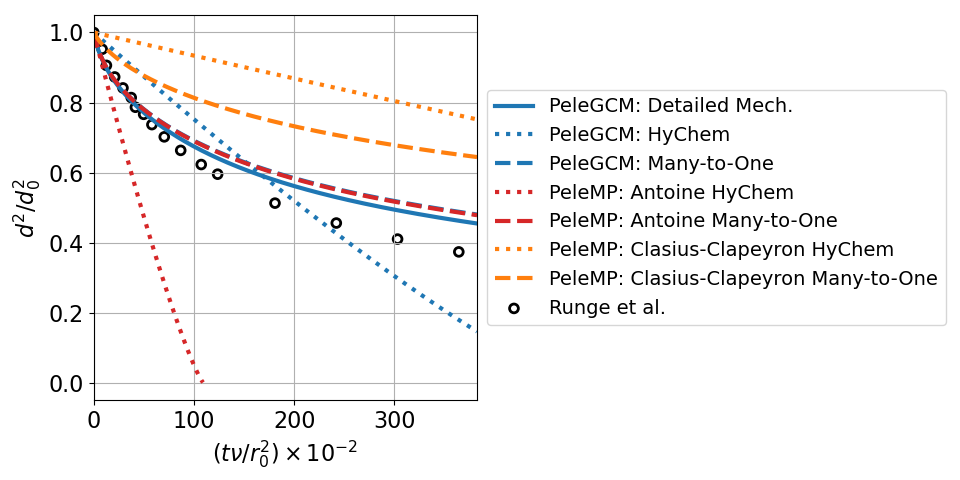
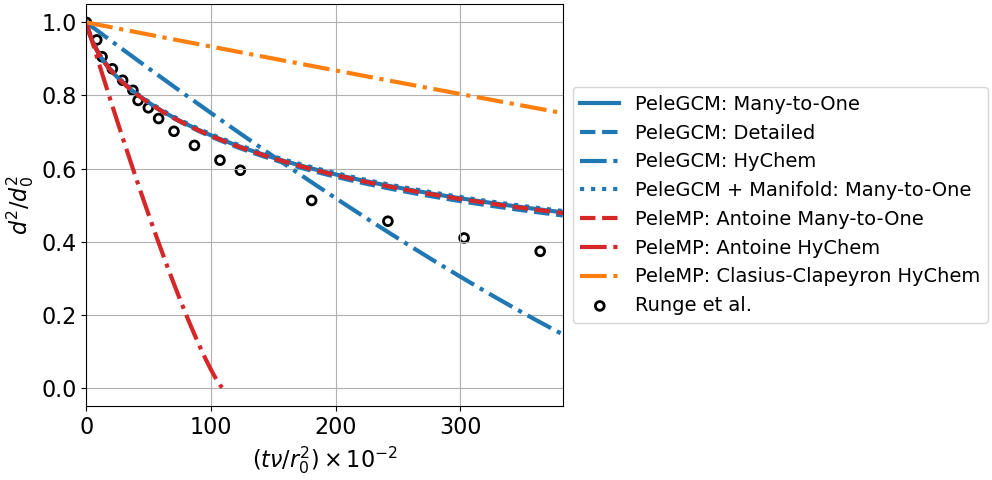
Minor docs update

diff --git a/Docs/sphinx/Spray.rst b/Docs/sphinx/Spray.rst
@@ -783,9 +783,9 @@ The following table details the parameters of each test:
 
 .. figure:: /Visualization/runge_jp8_res_2025.png
    :align: center
-   :figwidth: 85%
+   :figwidth: 80%
 
-   Droplet evaporation of POSF10264 (JP8) compared to experimental measurements from with Runge et al. [#runge]_ This demonstrates three different approaches: (i) A detailed non-reacting mechanism with 67 species in the liquid and gas phases, (ii) a single liquid species and corresponding single Hychem gas species, where the thermophysical properties of the liquid species are estimated using FuelLib's mixture properties, and (iii) a many-to-one mapping where 67 liquid species evaporate to a single Hychem gas species. The many-to-one cases for PeleGCM and PeleMP with Antoine fit are indistinguishable on this plot.
+   Droplet evaporation of POSF10264 (JP8) compared to experimental measurements from Runge et al. [#runge]_ This demonstrates three different approaches: (i) A detailed non-reacting mechanism with 67 species in the liquid and gas phases, (ii) a single liquid species and corresponding single Hychem gas species, where the thermophysical properties of the liquid species are estimated using FuelLib's mixture properties, and (iii) a many-to-one mapping where 67 liquid species evaporate to a single Hychem gas species with and without the Manifold EOS. The many-to-one cases for PeleGCM and PeleMP with Antoine fit are indistinguishable on this plot.
 
 .. [#owen] "PeleMP: The Multiphysics Solver for the Combustion Pele Adaptive Mesh Refinement Code Suite," L. D. Owen, W. Ge, M. Rieth, M. Arienti, L. Esclapez, B. S. Soriano, M. E. Mueller, M. Day, R. Sankaran, and J. H. Chen, J. Fluids Eng., vol. 146, no. 4, pp. 1-18 (2024), doi: `10.1115/1.4064494 <https://doi.org/10.1115/1.4064494>`_.
 